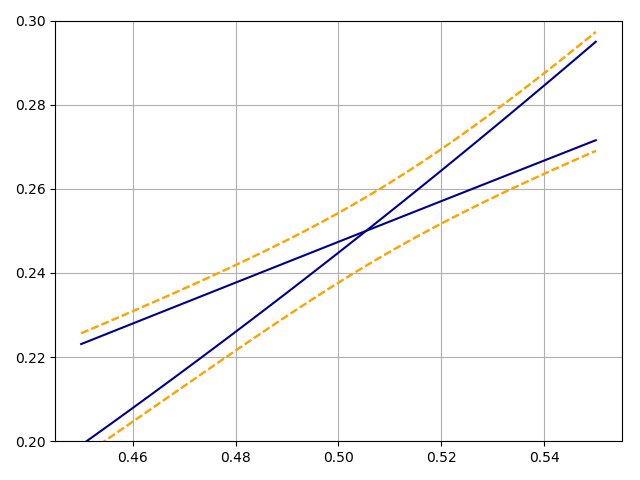
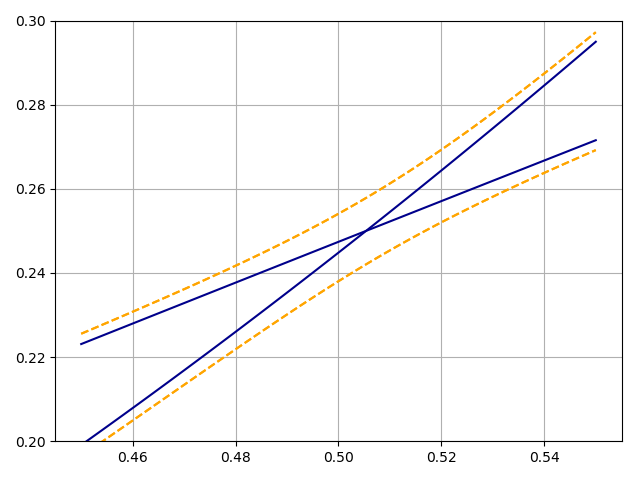
modified Umatrix in magnonpolarons in 1D and 3D.

diff --git a/examples/magnonpolarons_threedimensional.py b/examples/magnonpolarons_threedimensional.py
@@ -41,7 +41,7 @@ a = 1
 k_arr = np.linspace(-np.pi/a, np.pi/a, num=100)
 
 k_arr = np.linspace(0.45, 0.55, num=100)
-# ylim = [0.20, 0.30]
+ylim = [0.20, 0.30]
 
 # # # # # # # # # # # # # # # # # # # # # # # # # # # # # # # # # # # # # # # #
 # main
@@ -118,11 +118,8 @@ def create_Umatrix(k):
 
     # magnon-phonon interaction
     for lambd in range(1,4):
-        Umatrix[0,4+lambd] = 0.5*np.conjugate(Psi(k,vecs[:,lambd-1]))
-        Umatrix[4+lambd,0] = 0.5*np.conjugate(Psi(k,vecs[:,lambd-1]))
-
-        Umatrix[lambd,4] = 0.5*np.conjugate(Psi(k,vecs[:,lambd-1]))
-        Umatrix[4,lambd] = 0.5*np.conjugate(Psi(k,vecs[:,lambd-1]))
+        Umatrix[0,4+lambd] = np.conjugate(Psi(k,vecs[:,lambd-1]))
+        Umatrix[0+lambd,4] = np.conjugate(Psi(k,vecs[:,lambd-1]))
 
     return Umatrix
 

diff --git a/examples/magnonpolarons_unidimensional.py b/examples/magnonpolarons_unidimensional.py
@@ -78,11 +78,8 @@ def create_Umatrix(k):
     Umatrix[1,3] = -hbar/(4*m) + hbar*m*omega**2*(1-np.cos(k*a))/2
     Umatrix[3,1] = -hbar/(4*m) + hbar*m*omega**2*(1-np.cos(k*a))/2
 
-    Umatrix[0,3] = 0.5*np.conjugate(psi(k))
-    Umatrix[3,0] = 0.5*np.conjugate(psi(k))
-
-    Umatrix[1,2] = 0.5*np.conjugate(psi(k))
-    Umatrix[2,1] = 0.5*np.conjugate(psi(k))
+    Umatrix[0,3] = np.conjugate(psi(k))
+    Umatrix[1,2] = np.conjugate(psi(k))
 
     return Umatrix
 
